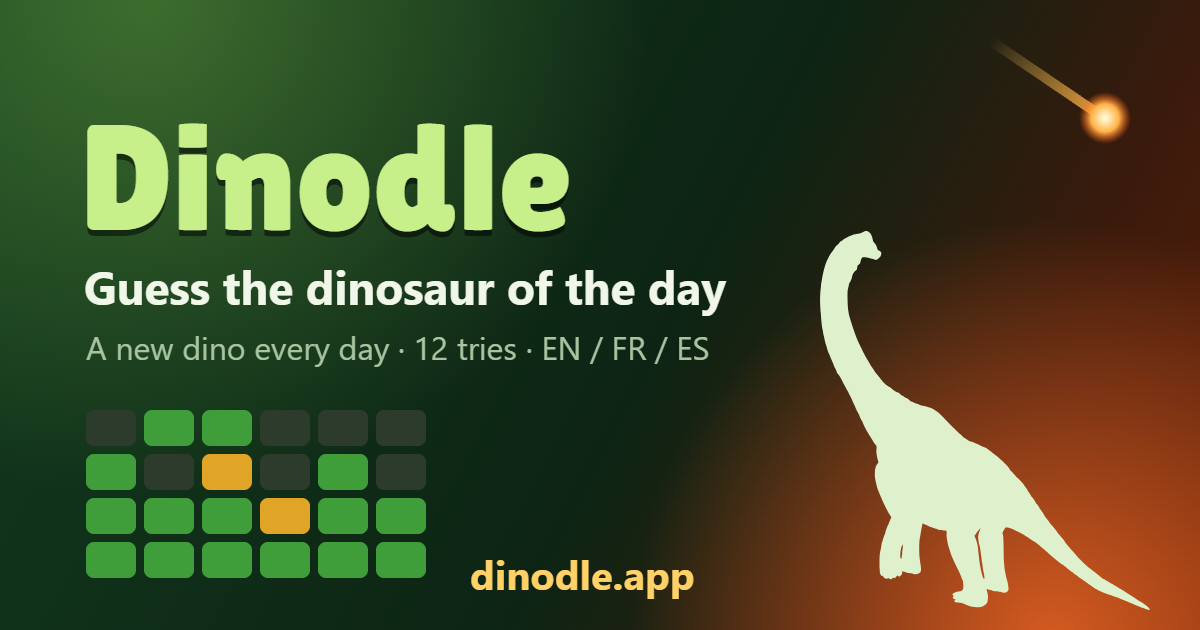
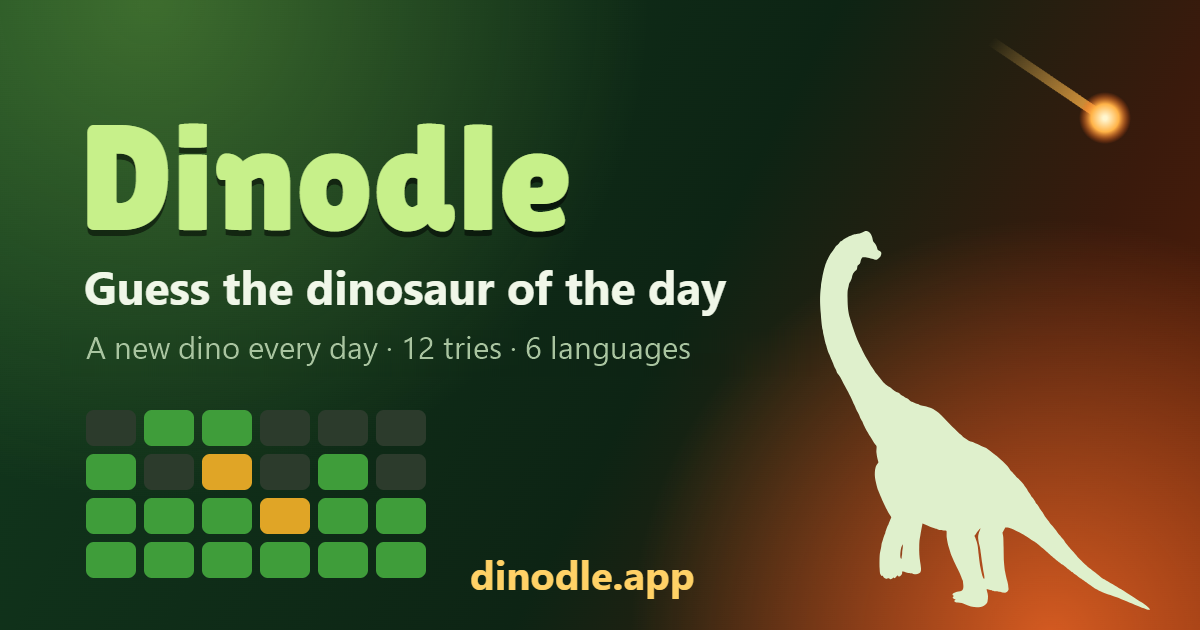
Share image and docs mention all 6 languages

Changed region(s): [[0.0925, 0.5127, 0.5858, 0.573]]

diff --git a/CLAUDE.md b/CLAUDE.md
@@ -15,7 +15,7 @@ Owner priorities: Dinodle first. Make it presentable, English-first (with French
 | File | Purpose |
 |------|---------|
 | `index.html` | The game page (home) with the Normal/Easy switch |
-| `i18n.js` | UI strings EN/FR/ES, language detection/switch, `localize()` for data |
+| `i18n.js` | UI strings EN/FR/ES/PT/DE/IT, language detection/switch, `localize()` for data |
 | `dinos.js` | Game config: attributes, compare rules, hints, Easy-mode filter |
 | `data/i18n/dinos.{en,fr,pt,de,it}.json` | Data translations: `fields` value maps + `description` by name (data source language is Spanish) |
 | `img/silhouettes/`, `data/silhouette-credits.json`, `credits.html` | Self-hosted PhyloPic silhouettes (CC0/PD/CC BY, a few CC BY-SA; never NC) with per-image credits |
